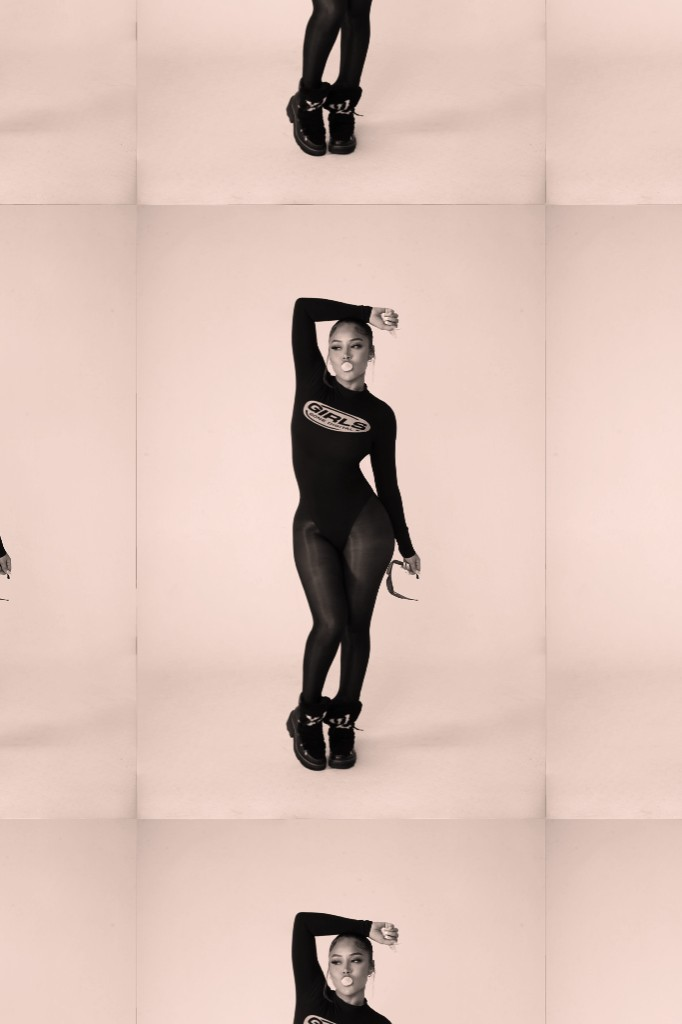
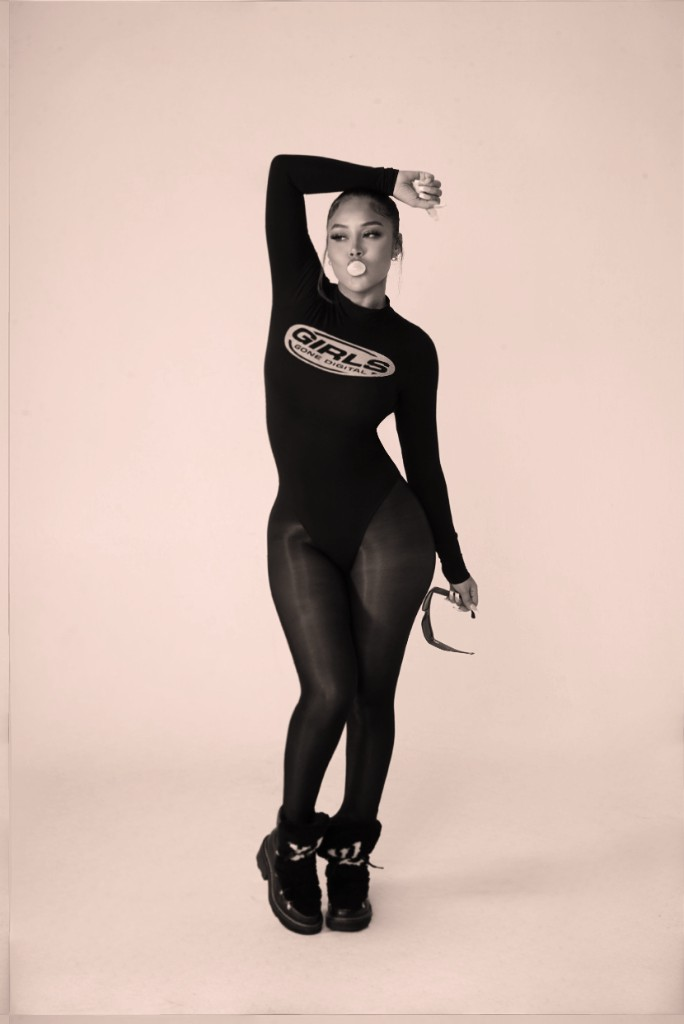
Shop carousel: replace with 8 new cropped GGD images; remove 09 and 10
Made-with: Cursor

diff --git a/pages/product-onesie-short-blk.html b/pages/product-onesie-short-blk.html
@@ -214,11 +214,14 @@
       <div class="product-carousel" id="onesieCarousel">
         <div class="carousel-track">
           <div class="carousel-slide"><img src="../assets/product-onezy-short-blk-raw.png" alt="GGD Short Sleeve Onesie Black"></div>
-          <div class="carousel-slide"><img src="../assets/product-onezy-short-shared-4.jpg" alt="GGD Short Sleeve Onesie"></div>
-          <div class="carousel-slide"><img src="../assets/product-onezy-short-shared-5.jpg" alt="GGD Short Sleeve Onesie"></div>
-          <div class="carousel-slide"><img src="../assets/product-onezy-short-shared-2.jpg" alt="GGD Short Sleeve Onesie"></div>
-          <div class="carousel-slide"><img src="../assets/product-onezy-short-shared-1.jpg" alt="GGD Short Sleeve Onesie"></div>
-          <div class="carousel-slide"><img src="../assets/product-onezy-short-shared-3.jpg" alt="GGD Short Sleeve Onesie"></div>
+          <div class="carousel-slide"><img src="../assets/product-onesie-short-blk-model-1.png" alt="GGD Short Sleeve Onesie"></div>
+          <div class="carousel-slide"><img src="../assets/product-onesie-short-blk-model-2.png" alt="GGD Short Sleeve Onesie"></div>
+          <div class="carousel-slide"><img src="../assets/product-onesie-short-blk-model-3.png" alt="GGD Short Sleeve Onesie"></div>
+          <div class="carousel-slide"><img src="../assets/product-onesie-short-blk-model-4.png" alt="GGD Short Sleeve Onesie"></div>
+          <div class="carousel-slide"><img src="../assets/product-onesie-short-blk-model-5.png" alt="GGD Short Sleeve Onesie"></div>
+          <div class="carousel-slide"><img src="../assets/product-onesie-short-blk-model-6.png" alt="GGD Short Sleeve Onesie"></div>
+          <div class="carousel-slide"><img src="../assets/product-onesie-short-blk-model-7.png" alt="GGD Short Sleeve Onesie"></div>
+          <div class="carousel-slide"><img src="../assets/product-onesie-short-blk-model-8.png" alt="GGD Short Sleeve Onesie"></div>
         </div>
         <button type="button" class="carousel-prev" id="carouselPrev" aria-label="Previous">‹</button>
         <button type="button" class="carousel-next" id="carouselNext" aria-label="Next">›</button>

diff --git a/pages/shop.html b/pages/shop.html
@@ -329,8 +329,8 @@
             <a href="product-onesie-short-blk.html" class="merch-item-image">
               <div class="merch-item-image-track">
                 <div class="merch-item-image-slide"><img src="../assets/product-onezy-short-blk-raw.png" alt="GGD Short Sleeve Onesie Black"></div>
-                <div class="merch-item-image-slide"><img src="../assets/product-onezy-short-shared-4.jpg" alt="GGD Short Sleeve Onesie"></div>
-                <div class="merch-item-image-slide"><img src="../assets/product-onezy-short-shared-5.jpg" alt="GGD Short Sleeve Onesie"></div>
+                <div class="merch-item-image-slide"><img src="../assets/product-onesie-short-blk-model-1.png" alt="GGD Short Sleeve Onesie"></div>
+                <div class="merch-item-image-slide"><img src="../assets/product-onesie-short-blk-model-2.png" alt="GGD Short Sleeve Onesie"></div>
               </div>
             </a>
             <button type="button" class="merch-item-image-prev" aria-label="Previous image">‹</button>
@@ -415,7 +415,7 @@
   <script>
     (function() {
       var shopEditsBase = '../assets/shop-carousel/';
-      var shopEditsFiles = ['shop-carousel-01.png', 'shop-carousel-02.png', 'shop-carousel-03.png', 'shop-carousel-04.png', 'shop-carousel-05.png', 'shop-carousel-06.png', 'shop-carousel-07.png', 'shop-carousel-08.png', 'shop-carousel-09.png', 'shop-carousel-10.png'];
+      var shopEditsFiles = ['shop-carousel-01.png', 'shop-carousel-02.png', 'shop-carousel-03.png', 'shop-carousel-04.png', 'shop-carousel-05.png', 'shop-carousel-06.png', 'shop-carousel-07.png', 'shop-carousel-08.png'];
       var track = document.getElementById('shopCarouselTrack');
       if (track && shopEditsFiles.length) {
         var html = '';
